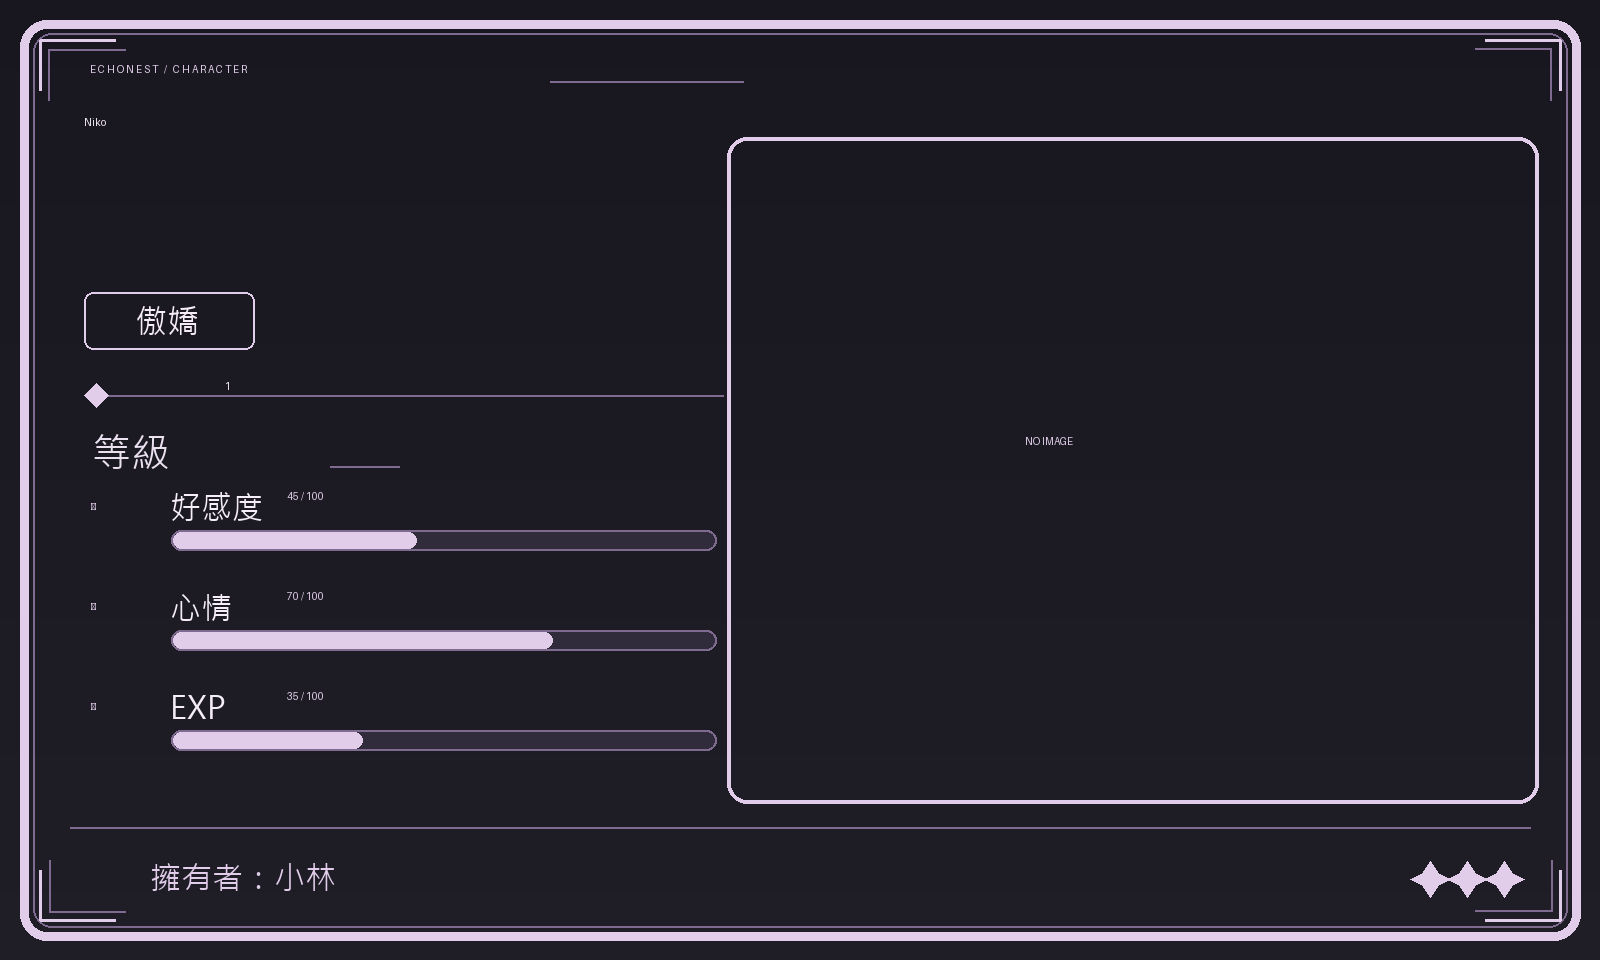
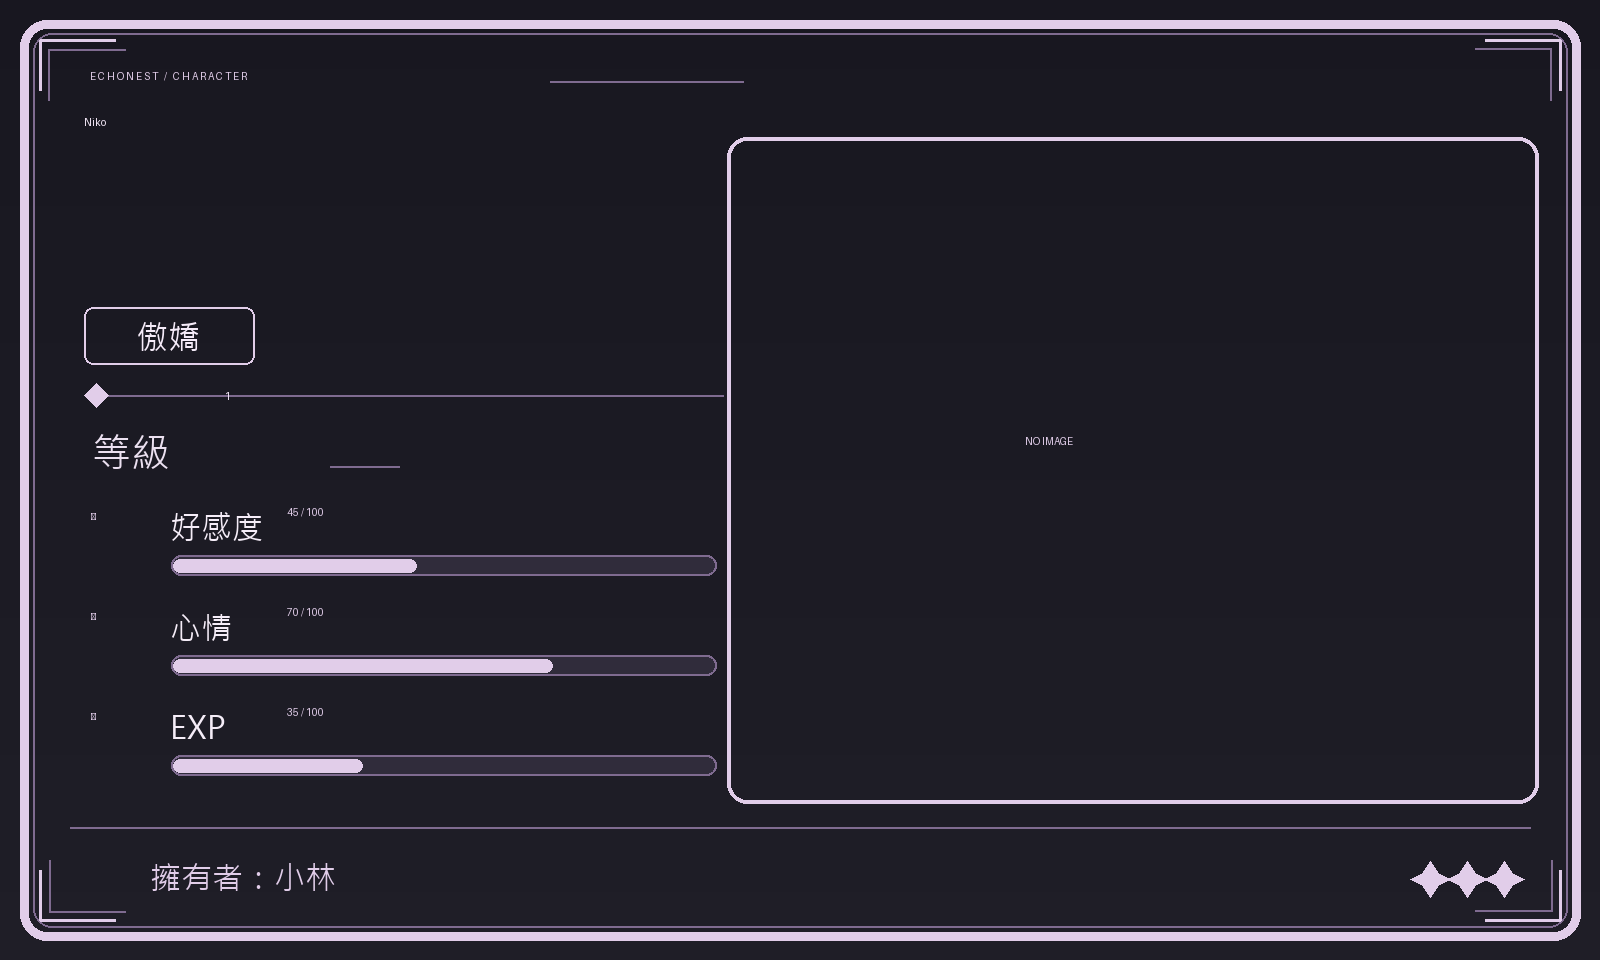
efesffes

Changed region(s): [[0.0938, 0.5, 0.4375, 0.8125], [0.0625, 0.3125, 0.125, 0.375], [0.0625, 0.0625, 0.1562, 0.0938]]

diff --git a/character_card.py b/character_card.py
@@ -79,11 +79,12 @@ def render_card(name, personality, owner, mood, affection, level, exp, portrait=
     d.text((84,116),name,font=title,fill=(246,234,250),stroke_width=0)
     name_bottom = d.textbbox((84,116),name,font=title)[3]
     tag_y = max(292,min(335,name_bottom+12))
+    tag_y = tag_y+15
     personality = str(personality or '未設定')
     tag_font = fitted_font(d,personality,260,32,20)
     tag_w = min(310,max(170,d.textbbox((0,0),personality,font=tag_font)[2]+56))
     d.rounded_rectangle((84,tag_y,84+tag_w,tag_y+57),radius=9,outline=pale,width=2)
-    d.text((135,tag_y+6),personality,font=tag_font,fill=(245,235,249))
+    d.text((136,tag_y+7),personality,font=tag_font,fill=(245,235,249))
     # Section break.
     d.line((88,395,723,395),fill=muted,width=2)
     d.polygon([(84,395),(96,383),(108,395),(96,407)],fill=pale)
@@ -96,15 +97,15 @@ def render_card(name, personality, owner, mood, affection, level, exp, portrait=
         d.text((170,y-5),label,font=font(31),fill=(245,237,248))
         maximum=max(1,int(maximum))
         d.text((287,y-4),f'{value} / {maximum}',font=font(27,'sans'),fill=pale)
-        d.rounded_rectangle((171,y+35,716,y+55),radius=11,fill=(48,44,59),outline=muted,width=2)
+        d.rounded_rectangle((171,y+45,716,y+65),radius=11,fill=(48,44,59),outline=muted,width=2)
         ratio=max(0,min(float(value)/maximum,1))
         if ratio>0:
             width=max(9,round(541*ratio))
-            d.rounded_rectangle((173,y+37,173+width,y+53),radius=9,fill=pale)
+            d.rounded_rectangle((173,y+49,173+width,y+62),radius=9,fill=pale)
 
-    stat(500,'♡','好感度',int(affection),100)
-    stat(600,'☁','心情',int(mood),100)
-    stat(700,'✧','EXP',int(exp)%100,100)
+    stat(510,'♡','好感度',int(affection),100)
+    stat(610,'☁','心情',int(mood),100)
+    stat(710,'✧','EXP',int(exp)%100,100)
     # Portrait panel.
     frame=(730,140,1535,800)
     d.rounded_rectangle((frame[0]-3,frame[1]-3,frame[2]+3,frame[3]+3),radius=20,outline=pale,width=4)
